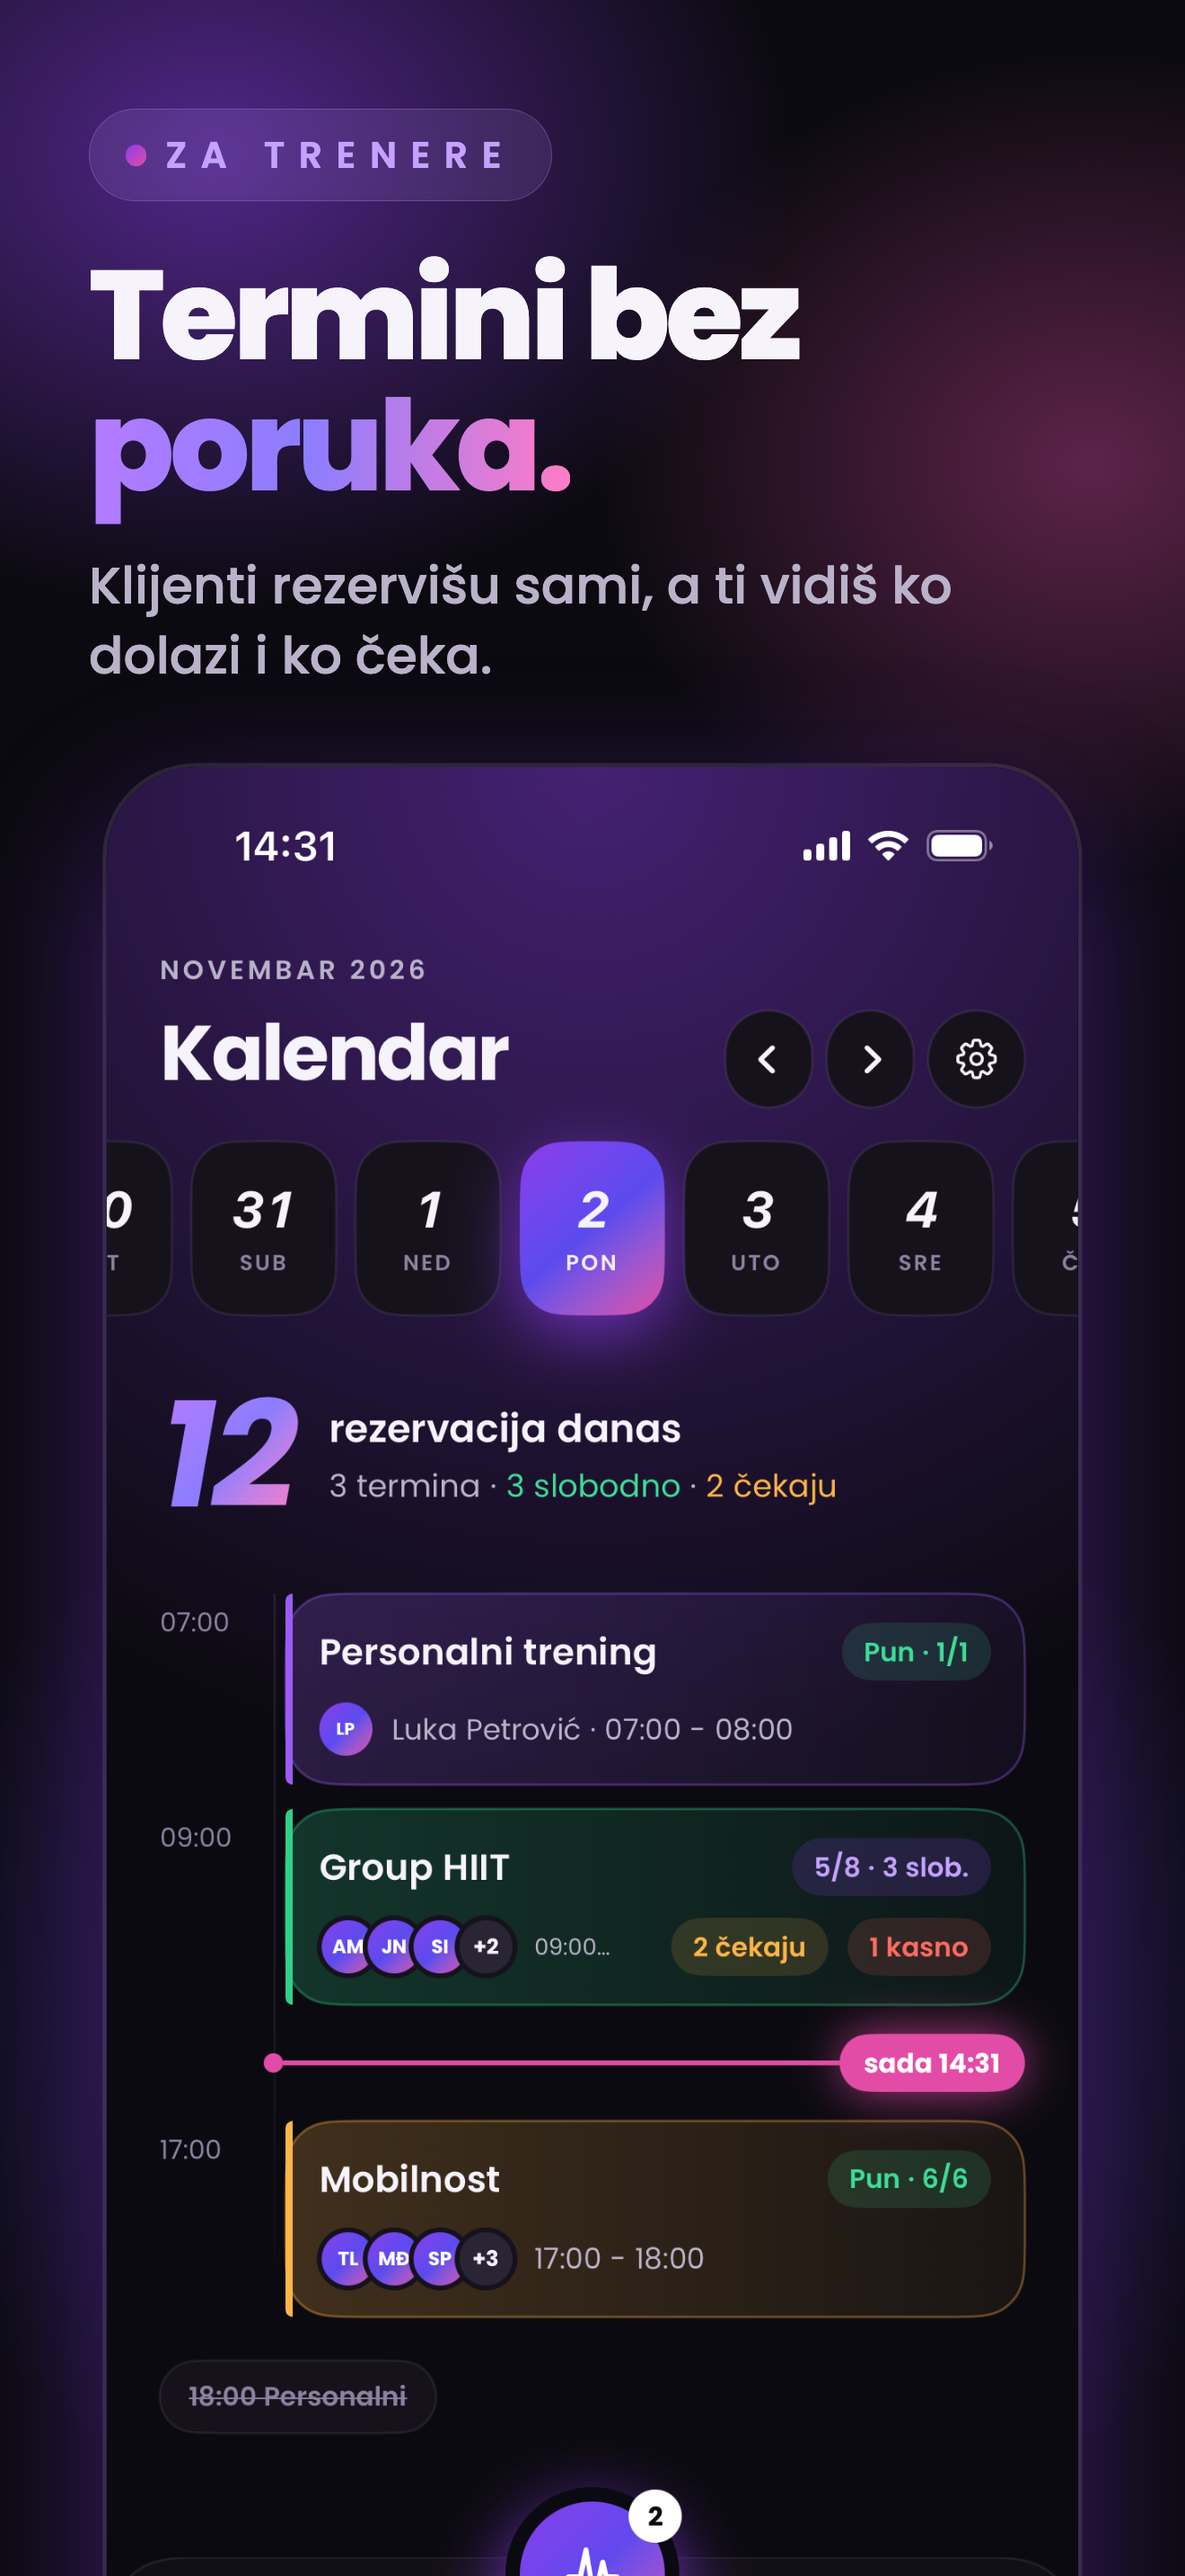
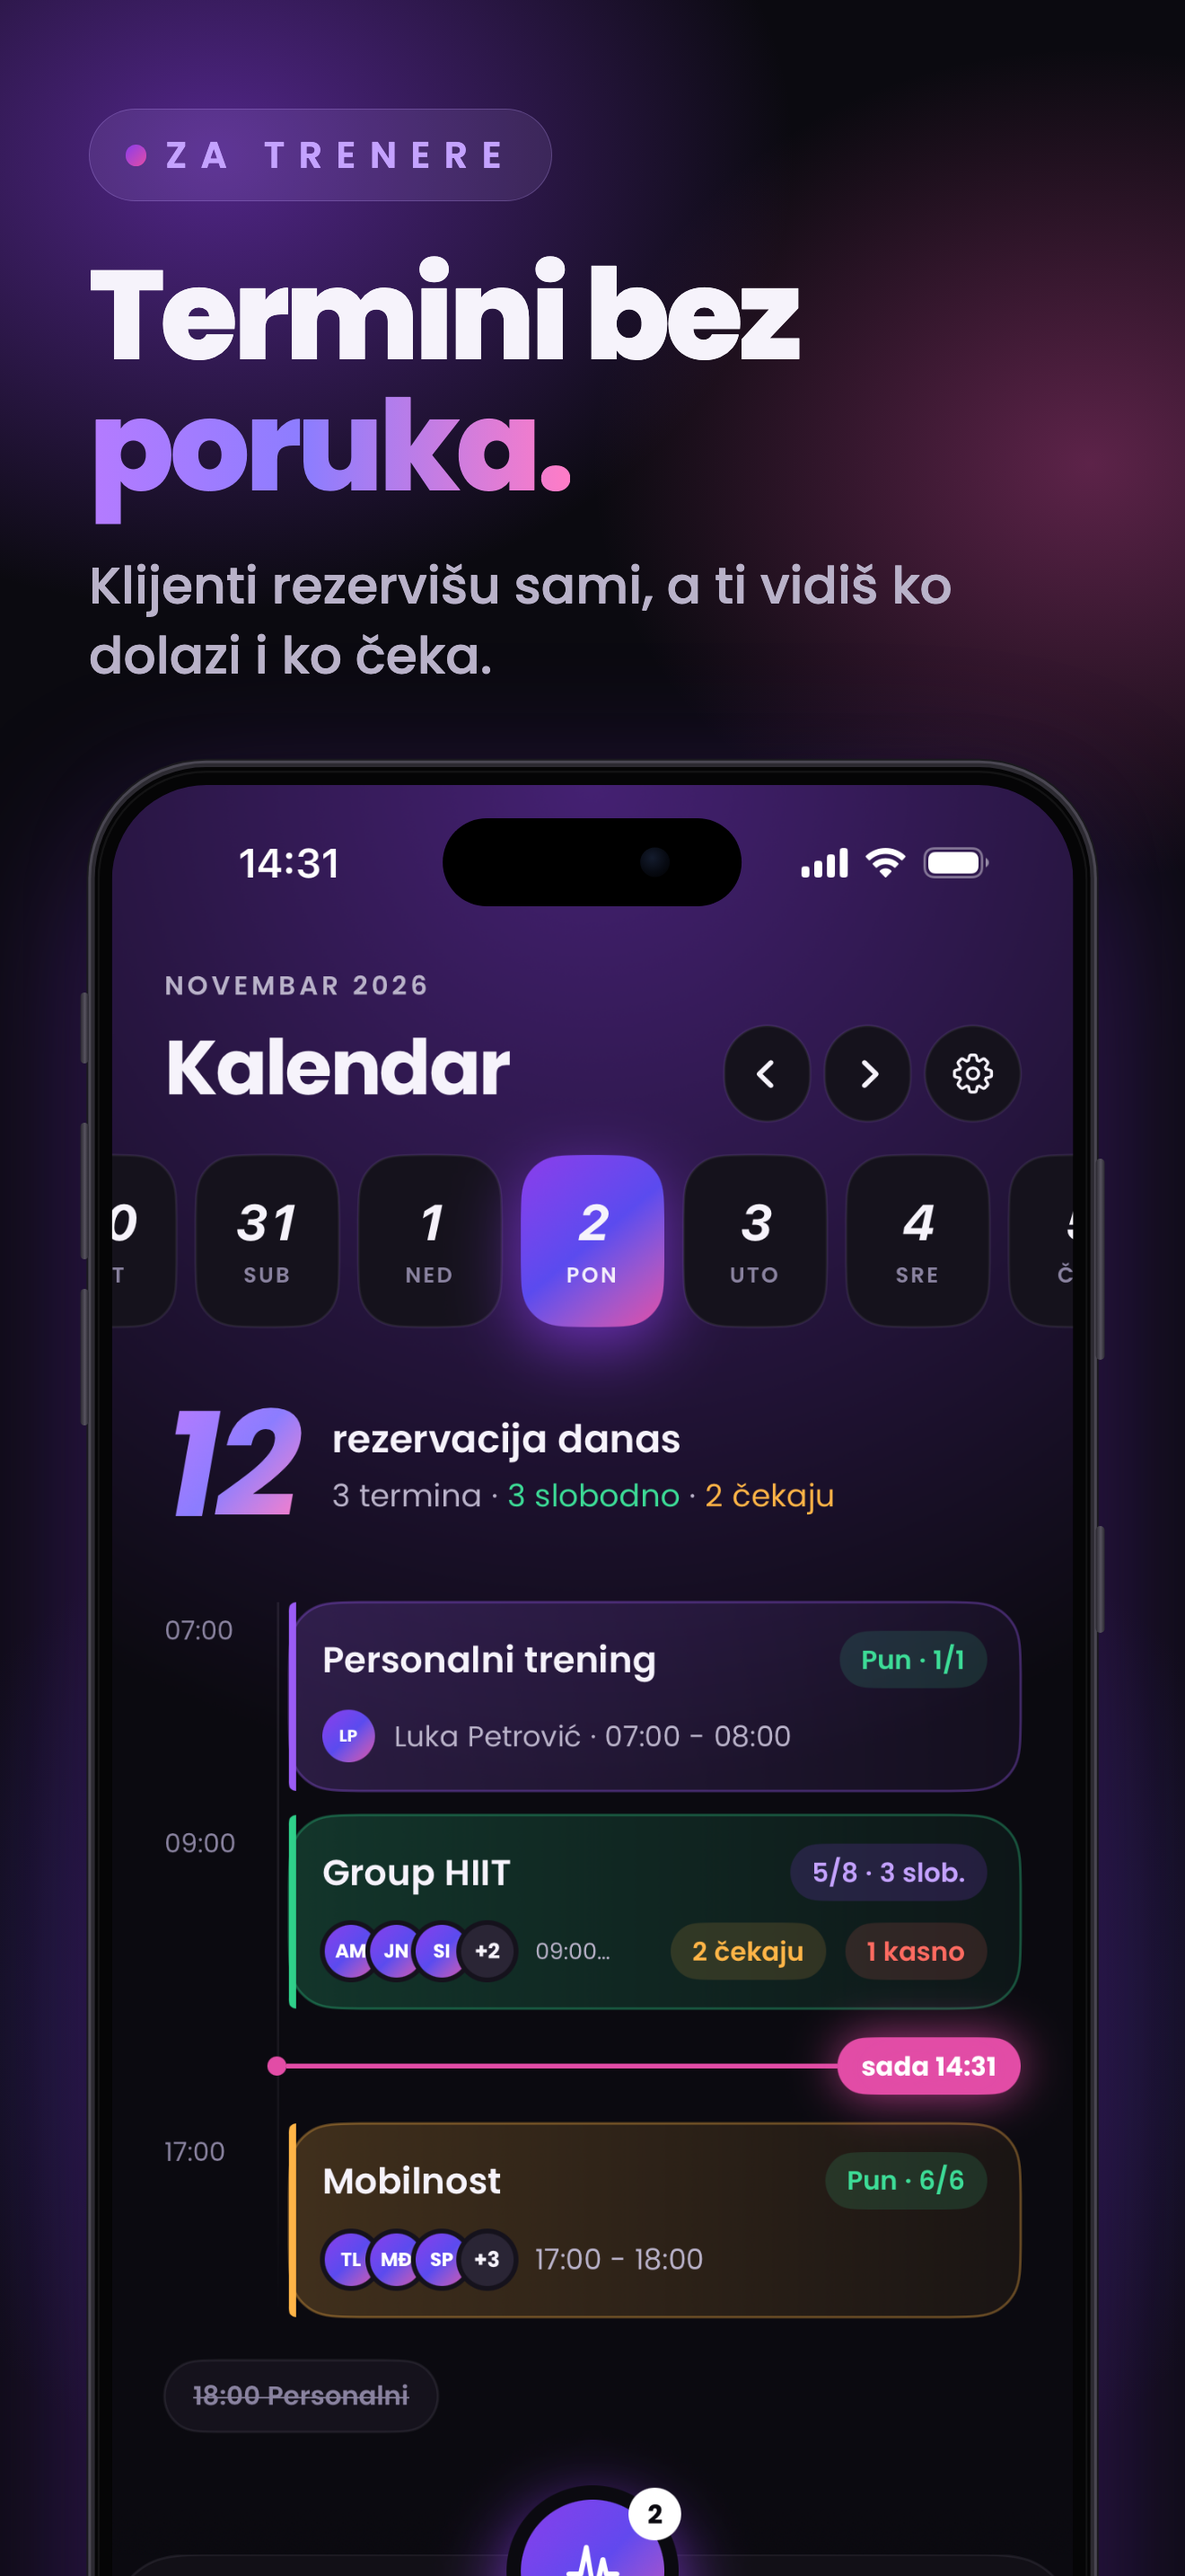
Frame the App Store screenshots in an iPhone with the Dynamic Island
Each screen sits in an iPhone 17 Pro style frame (titanium rim, black
border, side buttons) with the Dynamic Island drawn at the size and position
measured from a real simulator capture.

diff --git a/design/app-store/izvor/slajd.html b/design/app-store/izvor/slajd.html
@@ -22,10 +22,33 @@
   h1 em { font-style: normal; background: linear-gradient(90deg,#B57BFF,#8C7DFF 45%,#FF7CC6);
     -webkit-background-clip: text; background-clip: text; color: transparent; }
   p { margin-top: 3.2vw; font-weight: 500; font-size: 4.3vw; line-height: 1.38; color: #B9B2C9; max-width: 82vw; }
-  .ekran { position: absolute; left: 50%; transform: translateX(-50%); width: 82vw; z-index: 1;
-    border-radius: 7.6vw; overflow: hidden; background: #000;
-    box-shadow: 0 0 0 .35vw rgba(255,255,255,.10), 0 4vw 12vw rgba(139,61,235,.45), 0 1vw 4vw rgba(0,0,0,.6); }
+  /* iPhone: titanijumski rub, crna ivica oko ekrana, Dynamic Island i bocni dugmici. */
+  .telefon { position: absolute; left: 50%; transform: translateX(-50%); width: 84vw; z-index: 1;
+    padding: 1.45vw; border-radius: 9.4vw; background: #050506;
+    box-shadow:
+      0 0 0 .32vw #2C2A31,
+      0 0 0 .55vw #4A4752,
+      0 0 0 .7vw #1A191E,
+      0 5vw 14vw rgba(139,61,235,.42),
+      0 1.5vw 5vw rgba(0,0,0,.65); }
+  .telefon::before { content: ""; position: absolute; inset: .25vw; border-radius: 9.2vw;
+    box-shadow: inset 0 0 0 .18vw rgba(255,255,255,.06); pointer-events: none; }
+  .dugme { position: absolute; width: .75vw; border-radius: .4vw;
+    background: linear-gradient(90deg, #2A2830, #57535F 55%, #2A2830); }
+  .dugme.akcija { left: -1.25vw; top: 19vw; height: 6vw; }
+  .dugme.glas1  { left: -1.25vw; top: 30vw; height: 11.5vw; }
+  .dugme.glas2  { left: -1.25vw; top: 44vw; height: 11.5vw; }
+  .dugme.napajanje { right: -1.25vw; top: 33vw; height: 17vw; }
+  .dugme.kamera { right: -1.25vw; top: 64vw; height: 9vw; }
+  .ekran { position: relative; border-radius: 8vw; overflow: hidden; background: #000;
+    container-type: inline-size; }
   .ekran img { display: block; width: 100%; }
+  /* Mere sa pravog snimka iPhone 17 Pro: 375 x 111 px na 42 px od vrha, na sirini 1206. */
+  .ostrvo { position: absolute; left: 50%; transform: translateX(-50%);
+    top: 3.48cqw; width: 31.1cqw; height: 9.2cqw; border-radius: 4.6cqw; background: #000; }
+  .ostrvo::after { content: ""; position: absolute; right: 7.5cqw; top: 50%; transform: translateY(-50%);
+    width: 3.1cqw; height: 3.1cqw; border-radius: 50%;
+    background: radial-gradient(circle at 40% 35%, #141C2E 0%, #070A12 55%, #000 100%); }
 </style>
 </head>
 <body>
@@ -35,7 +58,11 @@
   <h1 id="naslov"></h1>
   <p id="opis"></p>
 </div>
-<div class="ekran" id="ekran"><img id="slika" alt=""></div>
+<div class="telefon" id="ekran">
+  <i class="dugme akcija"></i><i class="dugme glas1"></i><i class="dugme glas2"></i>
+  <i class="dugme napajanje"></i><i class="dugme kamera"></i>
+  <div class="ekran"><img id="slika" alt=""><div class="ostrvo"></div></div>
+</div>
 <script>
 const SLAJDOVI = {
   1:  { nad: "Za trenere", naslov: "Svaki klijent,<br><em>uživo.</em>", opis: "Puls, kalorije i serija dok trenira, sa sata ili narukvice za puls.", slika: "t-uzivo-detalj" },
